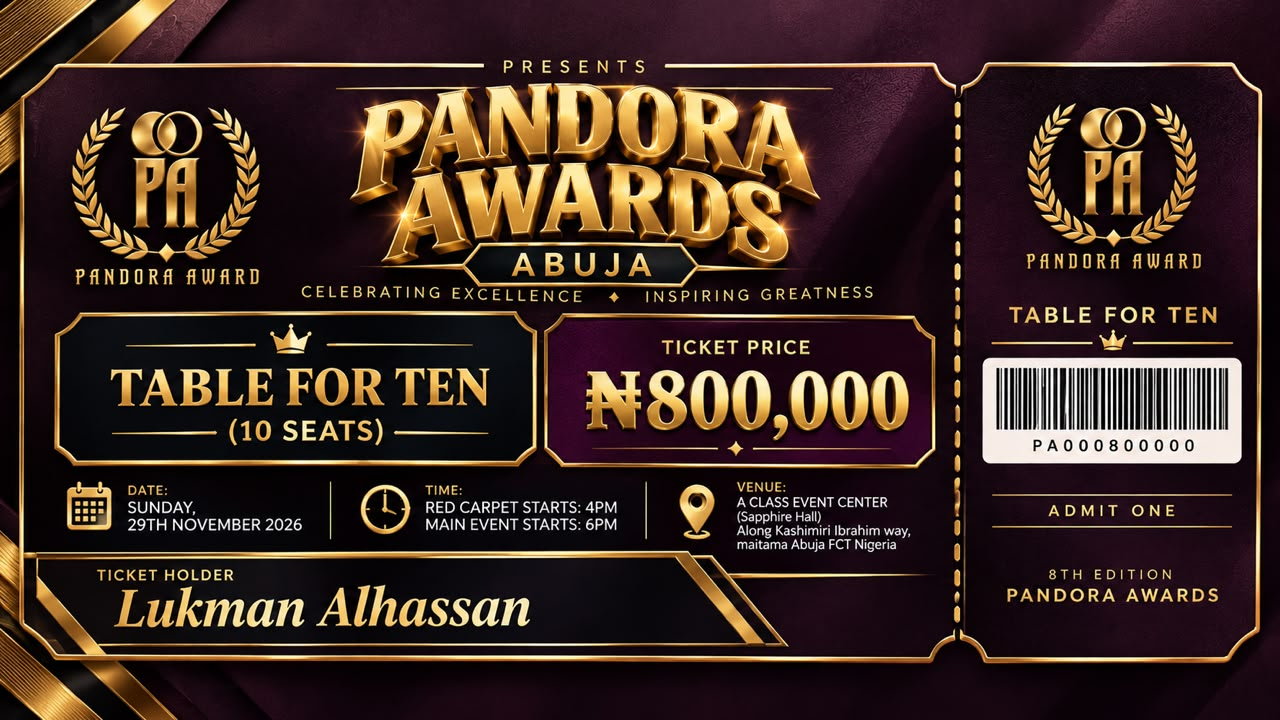
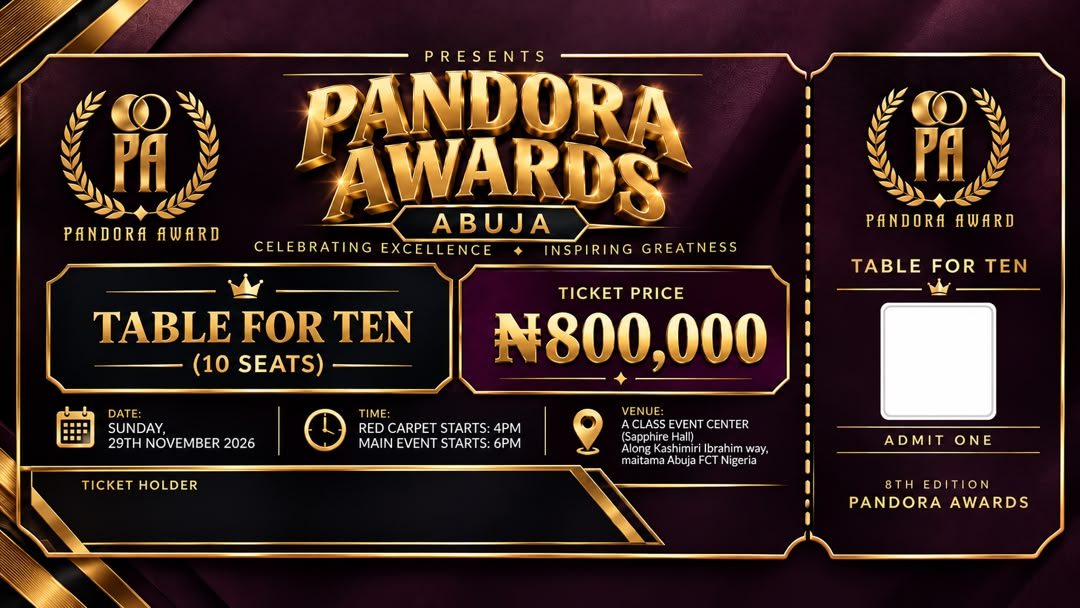
feat: clean ticket backgrounds, precise name + QR overlay, no duplicates

diff --git a/tickets/utils.py b/tickets/utils.py
@@ -58,46 +58,85 @@ def save_qr_to_file(ticket) -> str:
 
 
 # ---------------------------------------------------------------------------
-# Map ticket type → background image file
+# Ticket type → background image + text colour
+# New clean images: no sample name, no barcode — ready for overlay
 # ---------------------------------------------------------------------------
 
-TICKET_BG_MAP = {
-    'REGULAR':            'regular.jpeg',
-    'VIP':                'vip.jpeg',
-    'SPECIAL GUEST SEAT': 'special guest.jpeg',
-    'SPECIAL GUEST':      'special guest.jpeg',
-    'GOLD TABLE':         'table.jpeg',
-    'MEDIA':              'regular.jpeg',   # fallback
-    'STAFF':              'regular.jpeg',   # fallback
+TICKET_CONFIG = {
+    'REGULAR': {
+        'bg':         'reg.jpeg',
+        'name_color': '#1a0e00',    # dark on white/cream bg
+        # Name position (from bottom-left of page, mm)
+        'name_x':     22,
+        'name_y':     18,
+        # QR box centre on the stub (the white square in stub)
+        # stub starts at ~75.5% width
+        'qr_center_x_pct': 0.875,  # % of page width
+        'qr_center_y_mm':  95,     # mm from bottom
+        'qr_size_mm':      38,
+    },
+    'VIP': {
+        'bg':         'VIP.jpeg',
+        'name_color': '#c9960c',    # gold on black bg
+        'name_x':     22,
+        'name_y':     18,
+        'qr_center_x_pct': 0.875,
+        'qr_center_y_mm':  97,
+        'qr_size_mm':      38,
+    },
+    'SPECIAL GUEST SEAT': {
+        'bg':         'special.jpeg',
+        'name_color': '#c9960c',    # gold on green bg
+        'name_x':     22,
+        'name_y':     18,
+        'qr_center_x_pct': 0.875,
+        'qr_center_y_mm':  97,
+        'qr_size_mm':      38,
+    },
+    'SPECIAL GUEST': {
+        'bg':         'special.jpeg',
+        'name_color': '#c9960c',
+        'name_x':     22,
+        'name_y':     18,
+        'qr_center_x_pct': 0.875,
+        'qr_center_y_mm':  97,
+        'qr_size_mm':      38,
+    },
+    'GOLD TABLE': {
+        'bg':         'table.jpeg',
+        'name_color': '#c9960c',    # gold on dark purple bg
+        'name_x':     22,
+        'name_y':     18,
+        'qr_center_x_pct': 0.875,
+        'qr_center_y_mm':  97,
+        'qr_size_mm':      38,
+    },
+    'MEDIA': {
+        'bg':         'reg.jpeg',   # fallback
+        'name_color': '#1a0e00',
+        'name_x':     22,
+        'name_y':     18,
+        'qr_center_x_pct': 0.875,
+        'qr_center_y_mm':  95,
+        'qr_size_mm':      38,
+    },
+    'STAFF': {
+        'bg':         'reg.jpeg',   # fallback
+        'name_color': '#1a0e00',
+        'name_x':     22,
+        'name_y':     18,
+        'qr_center_x_pct': 0.875,
+        'qr_center_y_mm':  95,
+        'qr_size_mm':      38,
+    },
 }
 
-# Ticket type → name overlay text (what shows on stub)
-TICKET_STUB_LABELS = {
-    'REGULAR':            'REGULAR TICKET',
-    'VIP':                'VIP TICKET',
-    'SPECIAL GUEST SEAT': 'SPECIAL GUEST',
-    'SPECIAL GUEST':      'SPECIAL GUEST',
-    'GOLD TABLE':         'TABLE FOR TEN',
-    'MEDIA':              'MEDIA',
-    'STAFF':              'STAFF',
-}
-
-# Ticket type → name text colour for guest name overlay
-TICKET_NAME_COLORS = {
-    'REGULAR':            '#1a0e00',   # dark on white bg
-    'VIP':                '#c9960c',   # gold on black bg
-    'SPECIAL GUEST SEAT': '#c9960c',   # gold on green bg
-    'SPECIAL GUEST':      '#c9960c',
-    'GOLD TABLE':         '#c9960c',   # gold on dark purple bg
-    'MEDIA':              '#1a0e00',
-    'STAFF':              '#1a0e00',
-}
+DEFAULT_CONFIG = TICKET_CONFIG['REGULAR']
 
 
 # ---------------------------------------------------------------------------
-# PDF Ticket — uses pre-designed background images, overlays dynamic text
-# Layout exactly matches the 4 reference ticket designs
-# Size: A4 landscape = 297 x 210 mm (matches widescreen ticket proportions)
+# PDF Ticket — uses clean background images, overlays name + QR
+# Size: A4 landscape = 297 x 210 mm
 # ---------------------------------------------------------------------------
 
 def generate_ticket_pdf(ticket) -> bytes:
@@ -110,13 +149,10 @@ def generate_ticket_pdf(ticket) -> bytes:
     PAGE_W, PAGE_H = landscape(A4)   # 297 x 210 mm
 
     ttype = ticket.ticket_type.name.upper()
-    bg_file = TICKET_BG_MAP.get(ttype, 'regular.jpeg')
-    bg_path = os.path.join(settings.BASE_DIR, 'static', 'img', bg_file)
+    cfg = TICKET_CONFIG.get(ttype, DEFAULT_CONFIG)
 
-    name_color = colors.HexColor(TICKET_NAME_COLORS.get(ttype, '#1a0e00'))
-    GOLD       = colors.HexColor('#c9960c')
-    WHITE      = colors.white
-    BLACK      = colors.black
+    bg_path = os.path.join(settings.BASE_DIR, 'static', 'img', cfg['bg'])
+    name_color = colors.HexColor(cfg['name_color'])
 
     buf = io.BytesIO()
     c = canvas.Canvas(buf, pagesize=(PAGE_W, PAGE_H))
@@ -130,90 +166,56 @@ def generate_ticket_pdf(ticket) -> bytes:
             mask='auto',
         )
     else:
-        # Fallback plain background
         c.setFillColor(colors.HexColor('#f5f0e8'))
         c.rect(0, 0, PAGE_W, PAGE_H, fill=1, stroke=0)
 
     # ════════════════════════════════════════════════════════════════
-    # GUEST NAME — cover the baked-in sample name first, then
-    # write the real guest name cleanly on top
+    # GUEST NAME — placed in the blank TICKET HOLDER area
+    # The background has "TICKET HOLDER" label — name goes below it
     # ════════════════════════════════════════════════════════════════
 
     guest_name = ticket.guest.full_name
 
-    # Cover rectangle dimensions — covers the name area in the bg image
-    # Position varies slightly per ticket type but is roughly:
-    # x: 18mm, y: 18mm from bottom, width: 55% of page, height: 22mm
-    cover_colors = {
-        'REGULAR':            '#e8e0d0',   # cream/off-white (matches Regular bg)
-        'VIP':                '#0a0a0a',   # near-black (matches VIP bg)
-        'SPECIAL GUEST SEAT': '#1a3a1a',   # dark green (matches Special Guest bg)
-        'SPECIAL GUEST':      '#1a3a1a',
-        'GOLD TABLE':         '#1a0a28',   # dark purple (matches Gold Table bg)
-        'MEDIA':              '#e8e0d0',
-        'STAFF':              '#e8e0d0',
-    }
-    cover_hex = cover_colors.get(ttype, '#1a0a0a')
-    c.setFillColor(colors.HexColor(cover_hex))
-    c.rect(18 * mm, 16 * mm, PAGE_W * 0.58, 24 * mm, fill=1, stroke=0)
-
-    # Now write the real guest name
-    if len(guest_name) <= 20:
-        name_font_size = 28
-    elif len(guest_name) <= 28:
-        name_font_size = 22
+    # Font size based on name length
+    if len(guest_name) <= 18:
+        name_size = 30
+    elif len(guest_name) <= 24:
+        name_size = 25
+    elif len(guest_name) <= 32:
+        name_size = 20
     else:
-        name_font_size = 18
+        name_size = 16
 
     c.setFillColor(name_color)
-    c.setFont('Helvetica-BoldOblique', name_font_size)
-    c.drawString(22 * mm, 24 * mm, guest_name[:35])
+    c.setFont('Helvetica-BoldOblique', name_size)
+    c.drawString(
+        cfg['name_x'] * mm,
+        cfg['name_y'] * mm,
+        guest_name[:40],
+    )
 
     # ════════════════════════════════════════════════════════════════
-    # QR CODE — cover the baked-in barcode first, then draw real QR
+    # QR CODE — placed inside the white square box on the stub
     # ════════════════════════════════════════════════════════════════
 
-    stub_x = PAGE_W * 0.755
-    stub_w = PAGE_W - stub_x
+    qr_sz = cfg['qr_size_mm'] * mm
+    qr_cx = PAGE_W * cfg['qr_center_x_pct']
+    qr_cy = cfg['qr_center_y_mm'] * mm
 
-    # Cover the baked-in barcode area on the stub
-    # The barcode in the images sits roughly in the upper-middle of stub
-    barcode_cover_colors = {
-        'REGULAR':            '#f5f0e8',   # light cream
-        'VIP':                '#0a0a0a',   # black
-        'SPECIAL GUEST SEAT': '#1a3a1a',   # dark green
-        'SPECIAL GUEST':      '#1a3a1a',
-        'GOLD TABLE':         '#1a0a28',   # dark purple
-        'MEDIA':              '#f5f0e8',
-        'STAFF':              '#f5f0e8',
-    }
-    bc_cover = barcode_cover_colors.get(ttype, '#0a0a0a')
-    cover_w = stub_w - 8 * mm
-    cover_x = stub_x + 4 * mm
-    # Cover from y=55mm to y=120mm from bottom (barcode + surrounding area)
-    c.setFillColor(colors.HexColor(bc_cover))
-    c.rect(cover_x, 55 * mm, cover_w, 65 * mm, fill=1, stroke=0)
+    qr_x = qr_cx - qr_sz / 2
+    qr_y = qr_cy - qr_sz / 2
 
-    # Now draw the real QR code
     qr_bytes = generate_qr_image(ticket.qr_token, size=6)
-    qr_sz = 34 * mm
-    qr_x = stub_x + (stub_w - qr_sz) / 2
-    qr_y = PAGE_H / 2 - qr_sz / 2 - 5 * mm
-
-    # White background for QR
-    c.setFillColor(colors.white)
-    c.roundRect(qr_x - 2*mm, qr_y - 2*mm, qr_sz + 4*mm, qr_sz + 4*mm,
-                2*mm, fill=1, stroke=0)
     c.drawImage(
         ImageReader(io.BytesIO(qr_bytes)),
         qr_x, qr_y, qr_sz, qr_sz,
     )
 
-    # Ticket number under QR
-    c.setFillColor(colors.black)
-    c.setFont('Helvetica-Bold', 7.5)
+    # Ticket number below QR
+    c.setFillColor(colors.HexColor(cfg['name_color']))
+    c.setFont('Helvetica-Bold', 7)
     c.drawCentredString(
-        stub_x + stub_w / 2,
+        qr_cx,
         qr_y - 5 * mm,
         ticket.ticket_number,
     )
